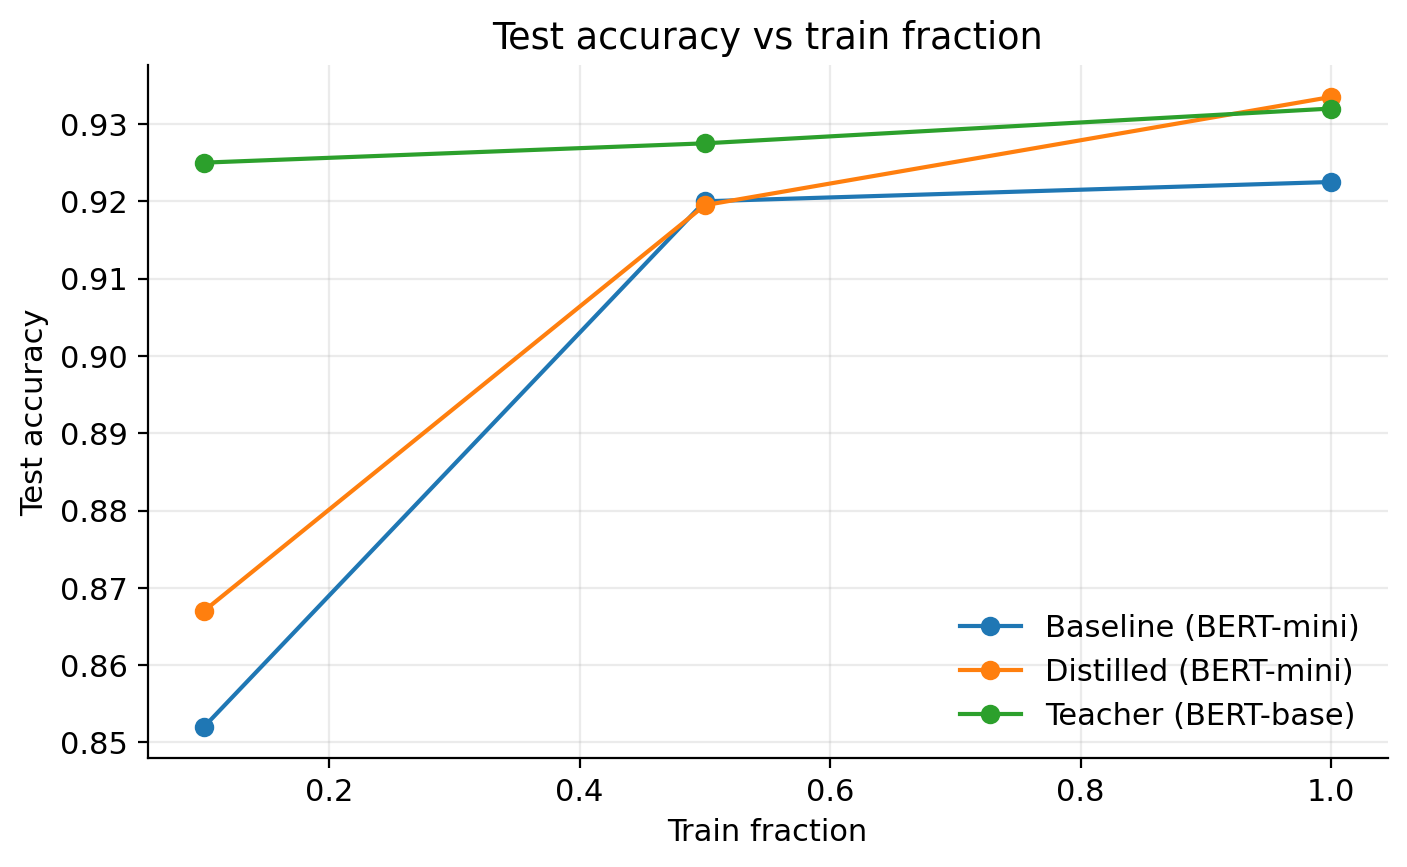
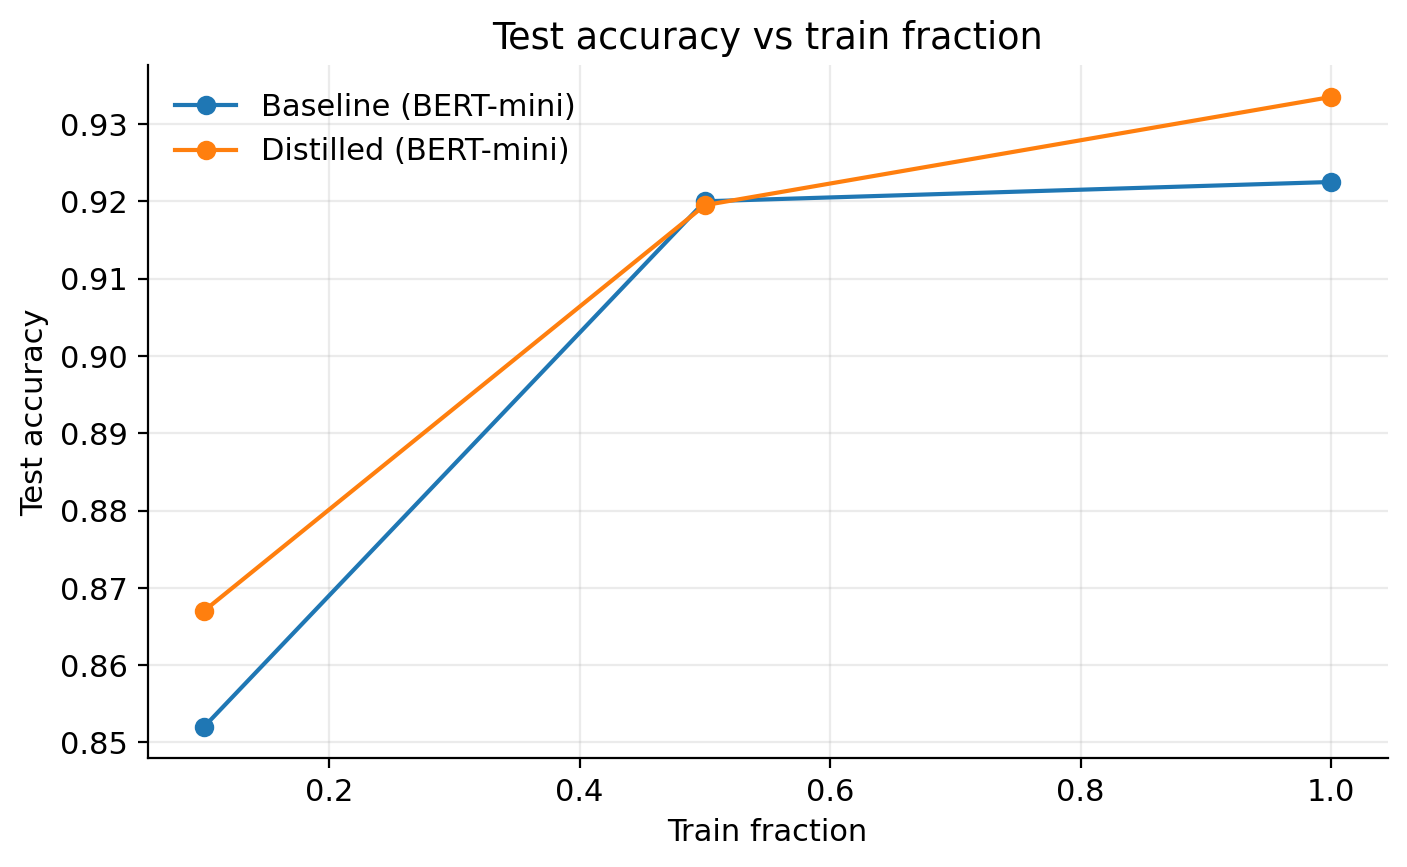
Clean up in evaluation

diff --git a/project/evaluation.py b/project/evaluation.py
@@ -126,7 +126,7 @@ def read_log_history_for_curve(model_dir: str) -> pd.DataFrame:
         df = df.sort_values("epoch")
     return df
 
-def plot_training_history(outputs_dir: str = "./outputs") -> None:
+def plot_training_history(outputs_dir: str = "./outputs", results_dir: str = "./results", exclude_teacher: bool = True) -> None:
     metrics_files = find_metrics_files(outputs_dir)
     if not metrics_files:
         raise FileNotFoundError(f"No metrics.json found under {outputs_dir}/seed*_frac*/")
@@ -136,7 +136,7 @@ def plot_training_history(outputs_dir: str = "./outputs") -> None:
 
     for mp in metrics_files:
         label = model_label_from_path(mp)
-        if label is None:
+        if label is None or (exclude_teacher and label == "Teacher (BERT-base)"):
             continue
 
         run_id = run_id_from_path(mp)
@@ -171,9 +171,9 @@ def plot_training_history(outputs_dir: str = "./outputs") -> None:
     df = df.sort_values(["train_fraction", "model"], ascending=[True, True])
 
     # Write summary tables
-    os.makedirs(outputs_dir, exist_ok=True)
-    csv_path = os.path.join(outputs_dir, "summary.csv")
-    md_path = os.path.join(outputs_dir, "summary.md")
+    os.makedirs(results_dir, exist_ok=True)
+    csv_path = os.path.join(results_dir, "summary.csv")
+    md_path = os.path.join(results_dir, "summary.md")
     df.to_csv(csv_path, index=False)
 
     # Markdown table (compact)
@@ -201,9 +201,9 @@ def plot_training_history(outputs_dir: str = "./outputs") -> None:
     plt.ylabel("Test accuracy")
     plt.title("Test accuracy vs train fraction")
     plt.legend()
-    outp = os.path.join(outputs_dir, "plot_accuracy_vs_fraction.png")
-    plt.savefig(outp, dpi=200, bbox_inches="tight")
-    print(f"Wrote: {outp}")
+    resultp = os.path.join(results_dir, "plot_accuracy_vs_fraction.png")
+    plt.savefig(resultp, dpi=200, bbox_inches="tight")
+    print(f"Wrote: {resultp}")
 
     # ---- Plot: f1 vs fraction (test) ----
     plt.figure()
@@ -217,9 +217,9 @@ def plot_training_history(outputs_dir: str = "./outputs") -> None:
     plt.ylabel("Test F1 (weighted)")
     plt.title("Test F1 vs train fraction")
     plt.legend()
-    outp = os.path.join(outputs_dir, "plot_f1_vs_fraction.png")
-    plt.savefig(outp, dpi=200, bbox_inches="tight")
-    print(f"Wrote: {outp}")
+    resultp = os.path.join(results_dir, "plot_f1_vs_fraction.png")
+    plt.savefig(resultp, dpi=200, bbox_inches="tight")
+    print(f"Wrote: {resultp}")
 
     # ---- Plot: learning curves (val accuracy vs epoch) ----
     if curves:
@@ -237,9 +237,9 @@ def plot_training_history(outputs_dir: str = "./outputs") -> None:
             plt.ylabel("Validation accuracy")
             plt.title("Validation accuracy learning curves")
             plt.legend(fontsize=8)
-            outp = os.path.join(outputs_dir, "plot_learning_curves.png")
-            plt.savefig(outp, dpi=200, bbox_inches="tight")
-            print(f"Wrote: {outp}")
+            resultp = os.path.join(results_dir, "plot_learning_curves.png")
+            plt.savefig(resultp, dpi=200, bbox_inches="tight")
+            print(f"Wrote: {resultp}")
         else:
             print("No eval_accuracy found in log_history.json files; skipping learning curve plot.")
     else:
@@ -249,9 +249,9 @@ def plot_training_history(outputs_dir: str = "./outputs") -> None:
 # Predictions-based evaluation (no model inference)
 # -----------------------------------------------
 
-def find_prediction_files(outputs_dir: str, split: str = "test") -> List[str]:
+def find_prediction_files(results_dir: str, split: str = "test") -> List[str]:
     # e.g. .../seed101_frac0.1/<model_dir>/test_predictions.jsonl
-    pattern = os.path.join(outputs_dir, "seed*_frac*", "*", f"{split}_predictions.jsonl")
+    pattern = os.path.join(results_dir, "seed*_frac*", "*", f"{split}_predictions.jsonl")
     return sorted(glob.glob(pattern))
 
 def model_dir_from_pred_path(pred_path: str) -> str:
@@ -311,7 +311,7 @@ def kl_divergence_rowwise(p: np.ndarray, q: np.ndarray, eps: float = 1e-12) -> n
     q = np.clip(q, eps, 1.0)
     return (p * (np.log(p) - np.log(q))).sum(axis=1)
 
-def deep_predictions_analysis(outputs_dir: str = "./outputs", split: str = "test") -> None:
+def deep_predictions_analysis(outputs_dir: str = "./outputs", results_dir: str = "./results", split: str = "test") -> None:
     pred_files = find_prediction_files(outputs_dir, split=split)
     if not pred_files:
         raise FileNotFoundError(f"No {split}_predictions.jsonl found under {outputs_dir}/seed*_frac*/")
@@ -425,7 +425,7 @@ def deep_predictions_analysis(outputs_dir: str = "./outputs", split: str = "test
                 mean_kl_to_teacher = float(kl.mean())
 
         # Save confusion matrix plot
-        cm_fig = os.path.join(outputs_dir, run_id, model_dir, f"{split}_confusion_matrix.png")
+        cm_fig = os.path.join(results_dir, run_id, model_dir, f"{split}_confusion_matrix.png")
         os.makedirs(os.path.dirname(cm_fig), exist_ok=True)
         plt.figure()
         plt.imshow(cm, interpolation="nearest")
@@ -440,7 +440,7 @@ def deep_predictions_analysis(outputs_dir: str = "./outputs", split: str = "test
         plt.close()
 
         # Save per-class accuracy bar plot (with support shown in x tick labels)
-        acc_fig = os.path.join(outputs_dir, run_id, model_dir, f"{split}_per_class_accuracy.png")
+        acc_fig = os.path.join(results_dir, run_id, model_dir, f"{split}_per_class_accuracy.png")
 
         tick_labels = []
         for cls, n, frac in zip(df_prf["class"], support.tolist(), df_prf["support_frac"].tolist()):
@@ -459,7 +459,7 @@ def deep_predictions_analysis(outputs_dir: str = "./outputs", split: str = "test
         plt.close()
 
         # Save per-class table
-        prf_csv = os.path.join(outputs_dir, run_id, model_dir, f"{split}_per_class_metrics.csv")
+        prf_csv = os.path.join(results_dir, run_id, model_dir, f"{split}_per_class_metrics.csv")
         df_prf.to_csv(prf_csv, index=False)
 
         rows_summary.append({
@@ -482,7 +482,7 @@ def deep_predictions_analysis(outputs_dir: str = "./outputs", split: str = "test
         })
 
     df_sum = pd.DataFrame(rows_summary).sort_values(["train_fraction", "model"])
-    out_csv = os.path.join(outputs_dir, f"{split}_preds_summary.csv")
+    out_csv = os.path.join(results_dir, f"{split}_preds_summary.csv")
     df_sum.to_csv(out_csv, index=False)
     print(f"Wrote: {out_csv}")
 
@@ -522,7 +522,7 @@ def deep_predictions_analysis(outputs_dir: str = "./outputs", split: str = "test
             continue
 
         # Plot grouped bars
-        fig_path = os.path.join(outputs_dir, run_id, f"{split}_per_label_accuracy_grouped.png")
+        fig_path = os.path.join(results_dir, run_id, f"{split}_per_label_accuracy_grouped.png")
         os.makedirs(os.path.dirname(fig_path), exist_ok=True)
 
         x = np.arange(len(labels))
@@ -565,10 +565,10 @@ def deep_predictions_analysis(outputs_dir: str = "./outputs", split: str = "test
     plt.ylabel("Agreement with teacher (pred label)")
     plt.title(f"{split}: Agreement with teacher vs fraction")
     plt.legend()
-    outp = os.path.join(outputs_dir, f"plot_{split}_agreement_with_teacher.png")
-    plt.savefig(outp, dpi=200, bbox_inches="tight")
+    resultp = os.path.join(results_dir, f"plot_{split}_agreement_with_teacher.png")
+    plt.savefig(resultp, dpi=200, bbox_inches="tight")
     plt.close()
-    print(f"Wrote: {outp}")
+    print(f"Wrote: {resultp}")
 
     # 2) KL(student||teacher) vs fraction (if logits exist)
     plt.figure()
@@ -585,10 +585,10 @@ def deep_predictions_analysis(outputs_dir: str = "./outputs", split: str = "test
         plt.ylabel("Mean KL(student || teacher)")
         plt.title(f"{split}: KL divergence to teacher vs fraction")
         plt.legend()
-        outp = os.path.join(outputs_dir, f"plot_{split}_kl_to_teacher.png")
-        plt.savefig(outp, dpi=200, bbox_inches="tight")
+        resultp = os.path.join(results_dir, f"plot_{split}_kl_to_teacher.png")
+        plt.savefig(resultp, dpi=200, bbox_inches="tight")
         plt.close()
-        print(f"Wrote: {outp}")
+        print(f"Wrote: {resultp}")
     else:
         plt.close()
         print("No KL plots generated (missing logits in predictions).")
@@ -599,10 +599,11 @@ def deep_predictions_analysis(outputs_dir: str = "./outputs", split: str = "test
 # -----------------------------------------------
 if __name__ == "__main__":
     outputs = "./outputs"
+    results = "./results"
     plot_training_history(outputs)
     
     set_plot_style()
     # Deep analysis from saved predictions (no model inference)
-    deep_predictions_analysis(outputs, split="val")
-    deep_predictions_analysis(outputs, split="test")
+    deep_predictions_analysis(outputs, results, split="val")
+    deep_predictions_analysis(outputs, results, split="test")
     

diff --git a/project/results/summary.md b/project/results/summary.md
@@ -2,10 +2,7 @@
 |-----------------:|:----------------------|---------------:|---------:|----------------:|----------:|--------------:|
 |              0.1 | Baseline (BERT-mini)  |         0.8635 | 0.862563 |          0.852  |  0.849874 |        0.3462 |
 |              0.1 | Distilled (BERT-mini) |         0.8775 | 0.87712  |          0.867  |  0.866299 |        2.2157 |
-|              0.1 | Teacher (BERT-base)   |         0.947  | 0.946462 |          0.925  |  0.923832 |        1.7106 |
 |              0.5 | Baseline (BERT-mini)  |         0.926  | 0.926016 |          0.92   |  0.920093 |        0.3412 |
 |              0.5 | Distilled (BERT-mini) |         0.9255 | 0.925652 |          0.9195 |  0.920228 |        2.2529 |
-|              0.5 | Teacher (BERT-base)   |         0.942  | 0.941869 |          0.9275 |  0.926924 |        1.7024 |
 |              1   | Baseline (BERT-mini)  |         0.936  | 0.936785 |          0.9225 |  0.923796 |        0.3459 |
 |              1   | Distilled (BERT-mini) |         0.9365 | 0.936508 |          0.9335 |  0.932827 |        2.3223 |
-|              1   | Teacher (BERT-base)   |         0.9435 | 0.943314 |          0.932  |  0.932085 |        1.6897 |
